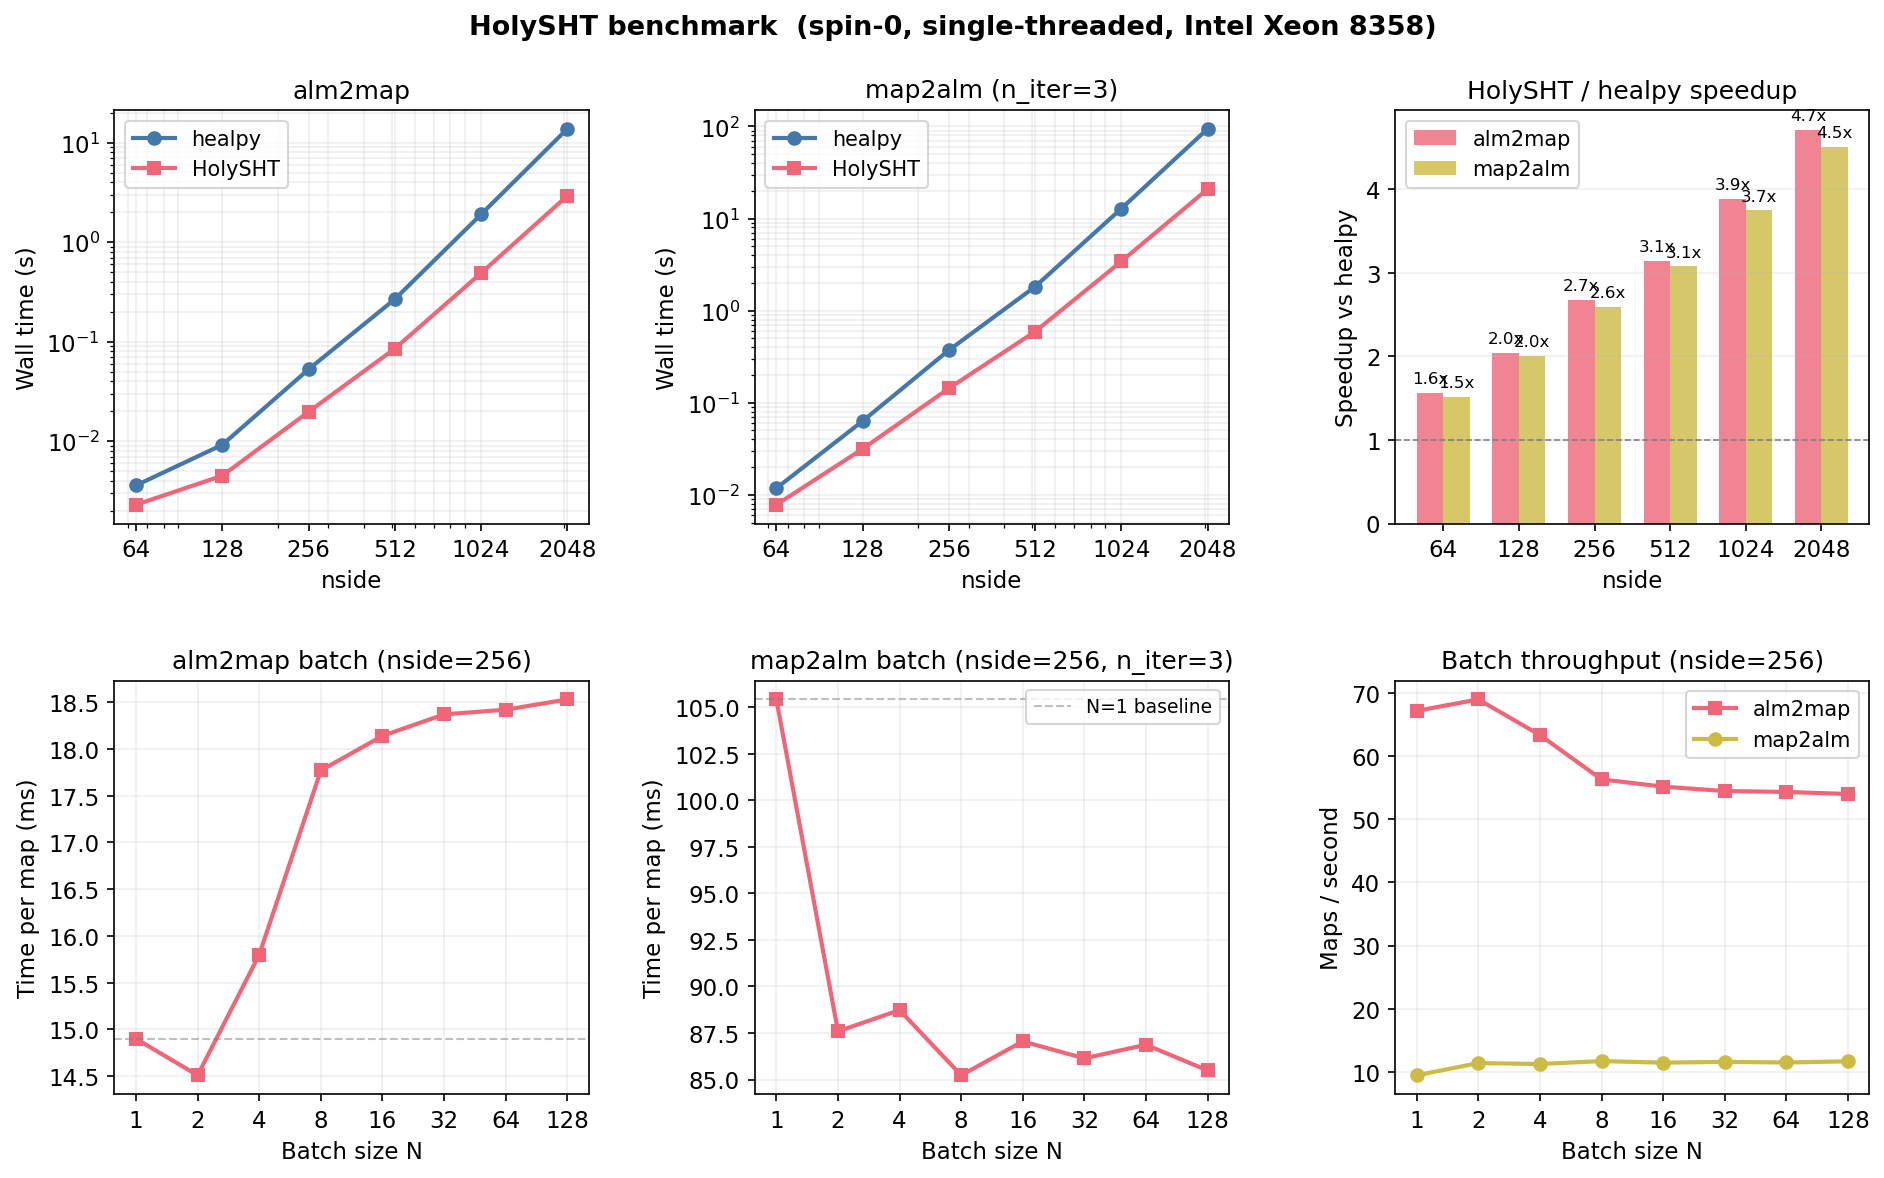
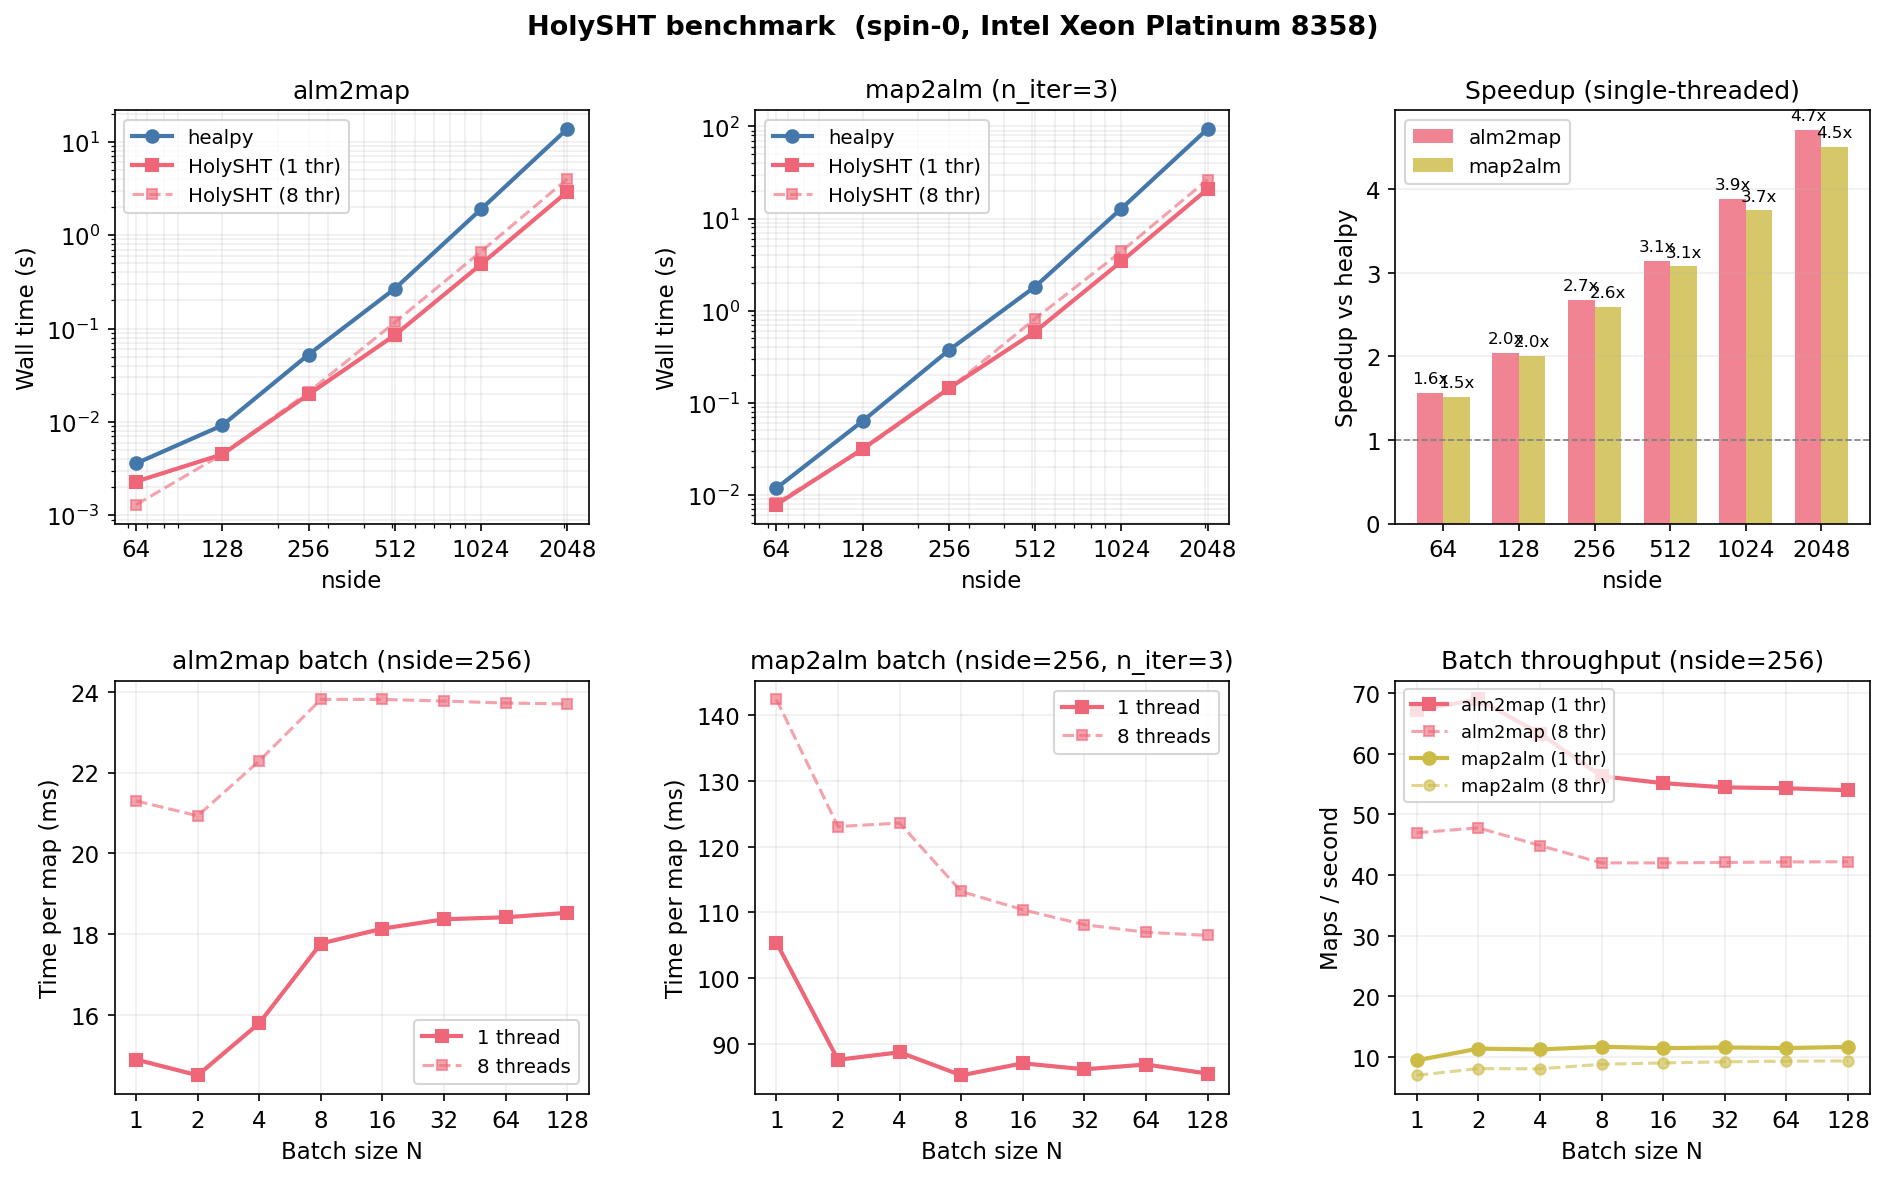
Update benchmark chart with 8-thread results
Add dashed lines for 8-thread runs to all panels. Update README text
to note that at moderate nside, threading overhead dominates and
batching is the better throughput strategy.

diff --git a/python/make_readme_plot.py b/python/make_readme_plot.py
@@ -6,18 +6,30 @@ matplotlib.use('Agg')
 import matplotlib.pyplot as plt
 import matplotlib.ticker as ticker
 
-# --- Data from single-threaded benchmark run ---
+# --- Data from benchmark runs (Intel Xeon Platinum 8358) ---
 
-nsides      = [64,    128,   256,   512,    1024,   2048]
-lmaxes      = [128,   256,   512,   1024,   2048,   4096]
-hp_a2m      = [0.0036, 0.0092, 0.0527, 0.2669, 1.8950, 13.7188]
-hs_a2m      = [0.0023, 0.0045, 0.0197, 0.0850, 0.4877,  2.9109]
-hp_m2a      = [0.0118, 0.0632, 0.3716, 1.8201, 12.8307, 94.0643]
-hs_m2a      = [0.0078, 0.0315, 0.1431, 0.5914,  3.4236, 20.8730]
+nsides = [64, 128, 256, 512, 1024, 2048]
 
-batch_N     = [1, 2, 4, 8, 16, 32, 64, 128]
-b_a2m_per   = [0.01490, 0.01451, 0.01580, 0.01777, 0.01814, 0.01837, 0.01842, 0.01853]
-b_m2a_per   = [0.10541, 0.08759, 0.08873, 0.08523, 0.08705, 0.08614, 0.08687, 0.08549]
+# Single-threaded
+hp_a2m_1t  = [0.0036, 0.0092, 0.0527, 0.2669,  1.8950, 13.7188]
+hs_a2m_1t  = [0.0023, 0.0045, 0.0197, 0.0850,  0.4877,  2.9109]
+hp_m2a_1t  = [0.0118, 0.0632, 0.3716, 1.8201, 12.8307, 94.0643]
+hs_m2a_1t  = [0.0078, 0.0315, 0.1431, 0.5914,  3.4236, 20.8730]
+
+# 8-threaded
+hp_a2m_8t  = [0.0017, 0.0087, 0.0517, 0.3389,  2.3144, 16.7529]
+hs_a2m_8t  = [0.0013, 0.0045, 0.0209, 0.1164,  0.6665,  3.9848]
+hp_m2a_8t  = [0.0114, 0.0580, 0.3415, 2.1765, 14.7382, 106.0183]
+hs_m2a_8t  = [0.0082, 0.0306, 0.1404, 0.8175,  4.3926, 26.4800]
+
+# Batch scaling (nside=256, 1 thread)
+batch_N        = [1, 2, 4, 8, 16, 32, 64, 128]
+b_a2m_per_1t   = [0.01490, 0.01451, 0.01580, 0.01777, 0.01814, 0.01837, 0.01842, 0.01853]
+b_m2a_per_1t   = [0.10541, 0.08759, 0.08873, 0.08523, 0.08705, 0.08614, 0.08687, 0.08549]
+
+# Batch scaling (nside=256, 8 threads)
+b_a2m_per_8t   = [0.02130, 0.02093, 0.02229, 0.02381, 0.02381, 0.02377, 0.02372, 0.02370]
+b_m2a_per_8t   = [0.14239, 0.12306, 0.12358, 0.11319, 0.11041, 0.10813, 0.10698, 0.10650]
 
 # --- Styling ---
 
@@ -25,40 +37,43 @@ plt.rcParams.update({
     'font.size': 11,
     'axes.titlesize': 12,
     'axes.labelsize': 11,
-    'legend.fontsize': 10,
+    'legend.fontsize': 9.5,
     'figure.facecolor': 'white',
 })
 
-C_HP  = '#4477AA'   # blue for healpy
-C_HS  = '#EE6677'   # red-pink for HolySHT
-C_BAR = '#228833'   # green for speedup bars
+C_HP  = '#4477AA'
+C_HS  = '#EE6677'
+C_BAR_A2M = '#EE6677'
+C_BAR_M2A = '#CCBB44'
 
 fig = plt.figure(figsize=(13, 8))
 gs = fig.add_gridspec(2, 3, hspace=0.38, wspace=0.35,
                       left=0.07, right=0.97, top=0.90, bottom=0.08)
 
-# ====== Row 1: nside scaling ======
+# ====== Row 1: nside scaling (1-thread) ======
 
 # -- alm2map --
 ax1 = fig.add_subplot(gs[0, 0])
-ax1.loglog(nsides, hp_a2m, 'o-', color=C_HP, label='healpy', lw=2, ms=6)
-ax1.loglog(nsides, hs_a2m, 's-', color=C_HS, label='HolySHT', lw=2, ms=6)
+ax1.loglog(nsides, hp_a2m_1t, 'o-',  color=C_HP, label='healpy', lw=2, ms=6)
+ax1.loglog(nsides, hs_a2m_1t, 's-',  color=C_HS, label='HolySHT (1 thr)', lw=2, ms=6)
+ax1.loglog(nsides, hs_a2m_8t, 's--', color=C_HS, label='HolySHT (8 thr)', lw=1.5, ms=5, alpha=0.6)
 ax1.set_xlabel('nside')
 ax1.set_ylabel('Wall time (s)')
 ax1.set_title('alm2map')
-ax1.legend()
+ax1.legend(loc='upper left')
 ax1.grid(True, alpha=0.2, which='both')
 ax1.set_xticks(nsides)
 ax1.xaxis.set_major_formatter(ticker.ScalarFormatter())
 
 # -- map2alm --
 ax2 = fig.add_subplot(gs[0, 1])
-ax2.loglog(nsides, hp_m2a, 'o-', color=C_HP, label='healpy', lw=2, ms=6)
-ax2.loglog(nsides, hs_m2a, 's-', color=C_HS, label='HolySHT', lw=2, ms=6)
+ax2.loglog(nsides, hp_m2a_1t, 'o-',  color=C_HP, label='healpy', lw=2, ms=6)
+ax2.loglog(nsides, hs_m2a_1t, 's-',  color=C_HS, label='HolySHT (1 thr)', lw=2, ms=6)
+ax2.loglog(nsides, hs_m2a_8t, 's--', color=C_HS, label='HolySHT (8 thr)', lw=1.5, ms=5, alpha=0.6)
 ax2.set_xlabel('nside')
 ax2.set_ylabel('Wall time (s)')
 ax2.set_title('map2alm (n_iter=3)')
-ax2.legend()
+ax2.legend(loc='upper left')
 ax2.grid(True, alpha=0.2, which='both')
 ax2.set_xticks(nsides)
 ax2.xaxis.set_major_formatter(ticker.ScalarFormatter())
@@ -67,19 +82,18 @@ ax2.xaxis.set_major_formatter(ticker.ScalarFormatter())
 ax3 = fig.add_subplot(gs[0, 2])
 x = np.arange(len(nsides))
 w = 0.35
-speedup_a2m = [h / s for h, s in zip(hp_a2m, hs_a2m)]
-speedup_m2a = [h / s for h, s in zip(hp_m2a, hs_m2a)]
-bars1 = ax3.bar(x - w/2, speedup_a2m, w, label='alm2map', color=C_HS, alpha=0.8)
-bars2 = ax3.bar(x + w/2, speedup_m2a, w, label='map2alm', color='#CCBB44', alpha=0.8)
+speedup_a2m = [h / s for h, s in zip(hp_a2m_1t, hs_a2m_1t)]
+speedup_m2a = [h / s for h, s in zip(hp_m2a_1t, hs_m2a_1t)]
+bars1 = ax3.bar(x - w/2, speedup_a2m, w, label='alm2map', color=C_BAR_A2M, alpha=0.8)
+bars2 = ax3.bar(x + w/2, speedup_m2a, w, label='map2alm', color=C_BAR_M2A, alpha=0.8)
 ax3.set_xticks(x)
 ax3.set_xticklabels([str(n) for n in nsides])
 ax3.set_xlabel('nside')
 ax3.set_ylabel('Speedup vs healpy')
-ax3.set_title('HolySHT / healpy speedup')
+ax3.set_title('Speedup (single-threaded)')
 ax3.axhline(1, color='gray', ls='--', lw=0.8)
 ax3.legend(loc='upper left')
 ax3.grid(True, alpha=0.2, axis='y')
-# Add value labels on bars
 for bar in bars1:
     h = bar.get_height()
     ax3.text(bar.get_x() + bar.get_width()/2, h + 0.08,
@@ -91,50 +105,52 @@ for bar in bars2:
 
 # ====== Row 2: batch scaling ======
 
-# -- alm2map per-map --
+# -- alm2map per-map (both thread counts) --
 ax4 = fig.add_subplot(gs[1, 0])
-ax4.plot(batch_N, [t * 1000 for t in b_a2m_per], 's-', color=C_HS, lw=2, ms=6)
-ax4.axhline(b_a2m_per[0] * 1000, ls='--', color='gray', alpha=0.5, lw=1)
+ax4.plot(batch_N, [t * 1000 for t in b_a2m_per_1t], 's-', color=C_HS, lw=2, ms=6, label='1 thread')
+ax4.plot(batch_N, [t * 1000 for t in b_a2m_per_8t], 's--', color=C_HS, lw=1.5, ms=5, alpha=0.6, label='8 threads')
 ax4.set_xscale('log', base=2)
 ax4.set_xlabel('Batch size N')
 ax4.set_ylabel('Time per map (ms)')
 ax4.set_title('alm2map batch (nside=256)')
 ax4.set_xticks(batch_N)
 ax4.xaxis.set_major_formatter(ticker.ScalarFormatter())
+ax4.legend()
 ax4.grid(True, alpha=0.2)
 
-# -- map2alm per-map --
+# -- map2alm per-map (both thread counts) --
 ax5 = fig.add_subplot(gs[1, 1])
-ax5.plot(batch_N, [t * 1000 for t in b_m2a_per], 's-', color=C_HS, lw=2, ms=6)
-ax5.axhline(b_m2a_per[0] * 1000, ls='--', color='gray', alpha=0.5, lw=1,
-            label='N=1 baseline')
+ax5.plot(batch_N, [t * 1000 for t in b_m2a_per_1t], 's-', color=C_HS, lw=2, ms=6, label='1 thread')
+ax5.plot(batch_N, [t * 1000 for t in b_m2a_per_8t], 's--', color=C_HS, lw=1.5, ms=5, alpha=0.6, label='8 threads')
 ax5.set_xscale('log', base=2)
 ax5.set_xlabel('Batch size N')
 ax5.set_ylabel('Time per map (ms)')
 ax5.set_title('map2alm batch (nside=256, n_iter=3)')
 ax5.set_xticks(batch_N)
 ax5.xaxis.set_major_formatter(ticker.ScalarFormatter())
-ax5.legend(loc='upper right', fontsize=9)
+ax5.legend()
 ax5.grid(True, alpha=0.2)
 
 # -- Batch throughput --
 ax6 = fig.add_subplot(gs[1, 2])
-tput_a2m = [N / t for N, t in zip(batch_N,
-            [b_a2m_per[i] * batch_N[i] for i in range(len(batch_N))])]
-tput_m2a = [N / t for N, t in zip(batch_N,
-            [b_m2a_per[i] * batch_N[i] for i in range(len(batch_N))])]
-ax6.plot(batch_N, tput_a2m, 's-', color=C_HS, lw=2, ms=6, label='alm2map')
-ax6.plot(batch_N, tput_m2a, 'o-', color='#CCBB44', lw=2, ms=6, label='map2alm')
+tput_a2m_1t = [1.0 / t for t in b_a2m_per_1t]
+tput_m2a_1t = [1.0 / t for t in b_m2a_per_1t]
+tput_a2m_8t = [1.0 / t for t in b_a2m_per_8t]
+tput_m2a_8t = [1.0 / t for t in b_m2a_per_8t]
+ax6.plot(batch_N, tput_a2m_1t, 's-',  color=C_BAR_A2M, lw=2, ms=6, label='alm2map (1 thr)')
+ax6.plot(batch_N, tput_a2m_8t, 's--', color=C_BAR_A2M, lw=1.5, ms=5, alpha=0.6, label='alm2map (8 thr)')
+ax6.plot(batch_N, tput_m2a_1t, 'o-',  color=C_BAR_M2A, lw=2, ms=6, label='map2alm (1 thr)')
+ax6.plot(batch_N, tput_m2a_8t, 'o--', color=C_BAR_M2A, lw=1.5, ms=5, alpha=0.6, label='map2alm (8 thr)')
 ax6.set_xscale('log', base=2)
 ax6.set_xlabel('Batch size N')
 ax6.set_ylabel('Maps / second')
 ax6.set_title('Batch throughput (nside=256)')
 ax6.set_xticks(batch_N)
 ax6.xaxis.set_major_formatter(ticker.ScalarFormatter())
-ax6.legend()
+ax6.legend(loc='upper left', fontsize=8.5)
 ax6.grid(True, alpha=0.2)
 
-fig.suptitle('HolySHT benchmark  (spin-0, single-threaded, Intel Xeon 8358)',
+fig.suptitle('HolySHT benchmark  (spin-0, Intel Xeon Platinum 8358)',
              fontsize=13, fontweight='bold')
 
 outpath = '../benchmark.png'

diff --git a/README.md b/README.md
@@ -409,21 +409,21 @@ alm_s2 = holysht.map2alm(map_s, 0, nside, lmax)
 
 ## Performance
 
-Single-threaded benchmark on an Intel Xeon Platinum 8358, comparing
-HolySHT (Python) against healpy 1.19 for spin-0 transforms:
+Benchmark on an Intel Xeon Platinum 8358, comparing HolySHT (Python)
+against healpy 1.19 for spin-0 transforms. Dashed lines show 8-thread
+results.
 
 ![Benchmark](benchmark.png)
 
-**Top row:** HolySHT is 1.5--4.7x faster than healpy, with the advantage
-growing at higher resolution (DUCC's newer SHT algorithms have better
-asymptotic scaling). At nside=2048, `alm2map` takes 2.9 s vs 13.7 s
-and `map2alm` takes 20.9 s vs 94.1 s.
+**Top row:** HolySHT is 1.5--4.7x faster than healpy single-threaded,
+with the advantage growing at higher resolution. At nside=2048,
+`alm2map` takes 2.9 s vs 13.7 s and `map2alm` takes 20.9 s vs 94.1 s.
 
-**Bottom row:** Batching multiple maps into a single call amortizes
-setup cost and (with multiple threads) parallelizes across both maps
-and rings. Even single-threaded, `map2alm` per-map cost drops ~19%
-from N=1 to N=2+ thanks to FFT plan reuse inside DUCC's batch
-functions. healpy has no native batch mode.
+**Bottom row:** Batching multiple maps into a single call reuses FFT
+plans across the batch dimension, reducing `map2alm` per-map cost by
+~19% even single-threaded. For moderate nside (256), threading overhead
+dominates over parallelism gains on single maps -- batching is the
+better strategy for throughput. healpy has no native batch mode.
 
 ## Tests
 
